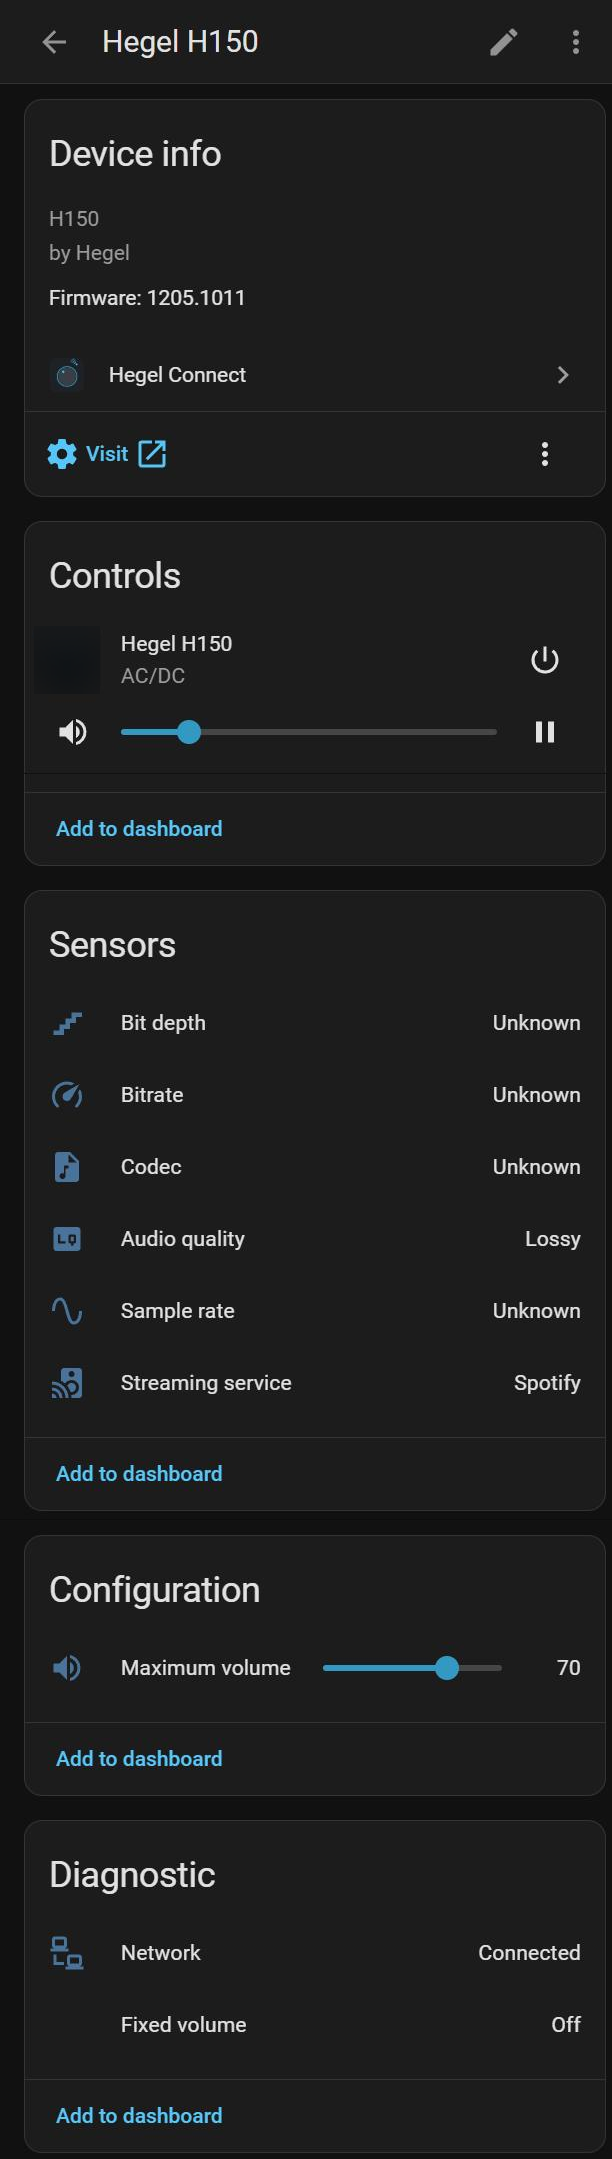
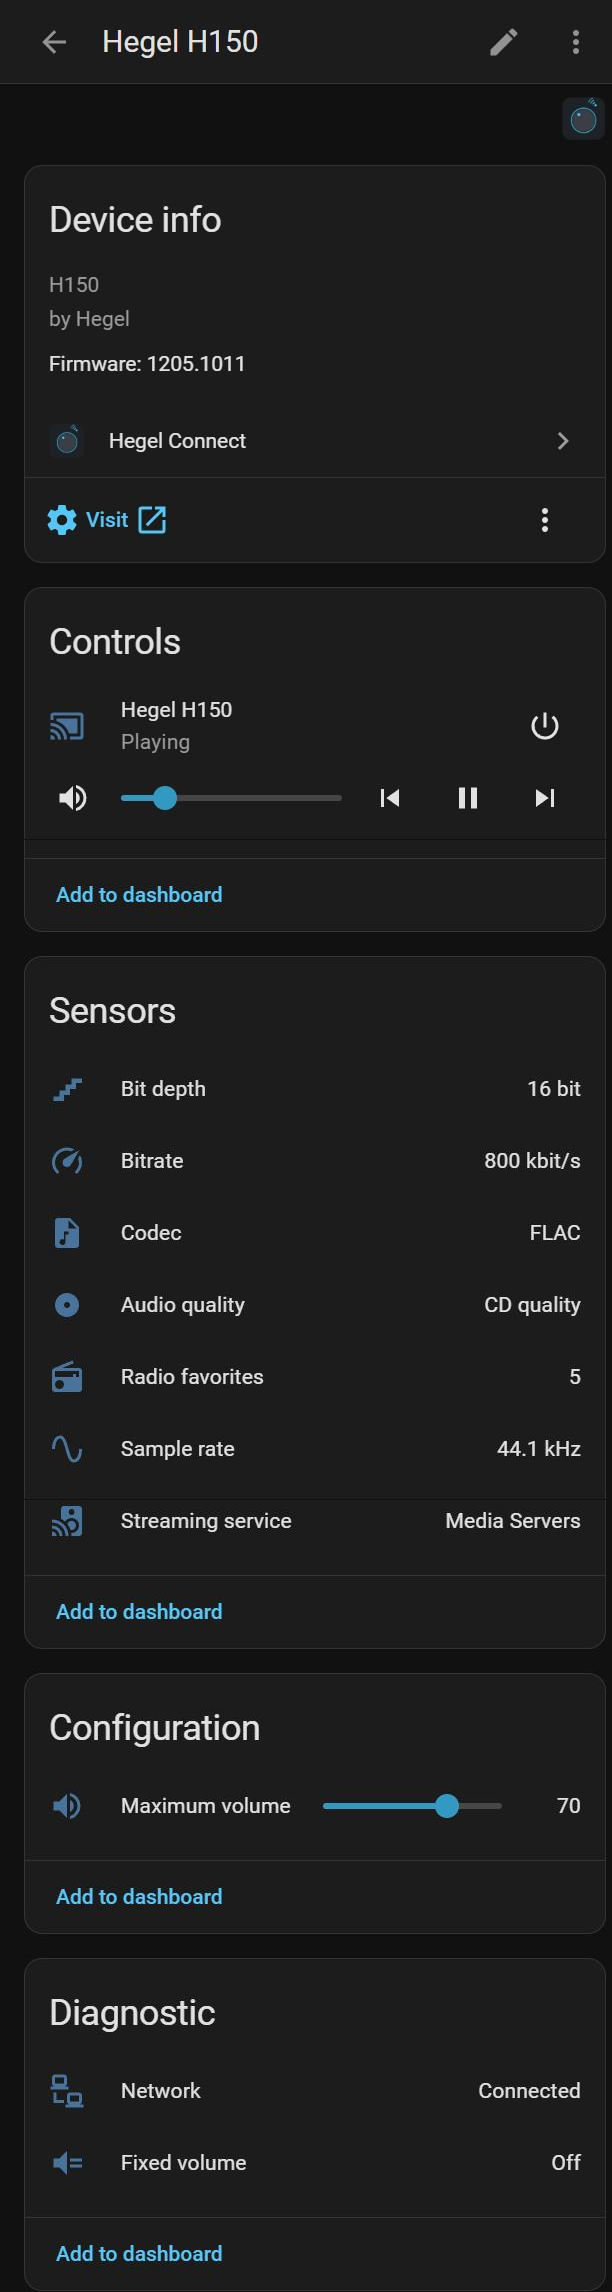
README: radio favorites sensor and example, media server row, new screenshot (FLAC from a media server)
Claude-Session: https://claude.ai/code/session_01XapCvCkMDgF1EGFruTqRYU

diff --git a/README.md b/README.md
@@ -36,6 +36,7 @@ The H150, H400 and H600 share the same software platform (they are supported by 
 - **Reliable input switching**: waits until the amplifier is on, pauses a running stream and checks the input stays selected (after power-on the amplifier otherwise jumps back to Network)
 - **Playback**: play, pause, next, previous and stop, **only where the current service allows it** (see below)
 - **Media browser**: your internet radio favorites, all internet radio and recently played
+- **Radio favorites sensor** with the stations saved in the Hegel Control app, to build radio buttons on a dashboard
 
 **Now playing and stream format**
 - Title, artist, album, cover art, streaming service, track length and position
@@ -63,6 +64,7 @@ The amplifier reports per service which controls work; Hegel Connect follows it,
 | :---- | :---- | :---- | :---- |
 | Spotify Connect | Service and quality only (Spotify sends no codec or bitrate) | No: the amplifier refuses it | No: would end the session with your phone |
 | Internet radio | Codec, bit depth, sample rate, bitrate | No | Yes |
+| Media server (UPnP/DLNA, e.g. FLAC from a NAS) | Codec, bit depth, sample rate, bitrate | Yes (tested) | Offered (not tested yet) |
 | TIDAL / Qobuz Connect | Codec, bit depth, sample rate | Expected (not tested yet) | Offered (not tested yet) |
 | AirPlay (e.g. Apple Music) | AirPlay's own label (Lossless, Hi-Res Lossless) | Expected (not tested yet) | Offered (not tested yet) |
 | Google Cast (e.g. YouTube Music) | Codec | Not tested yet | Offered (not tested yet) |
@@ -78,6 +80,7 @@ For an amplifier named *Hegel H150*:
 | `media_player.hegel_h150` | Power, volume, mute, input, playback, now playing, media browser |
 | `sensor.hegel_h150_audio_quality` | Hi-Res, CD quality, Lossless, Lossy, DSD (while the streamer plays) |
 | `sensor.hegel_h150_codec`, `_sample_rate`, `_bit_depth`, `_bitrate`, `_streaming_service` | Stream details, when the service reports them |
+| `sensor.hegel_h150_radio_favorites` | Number of radio favorites; the list (title, icon, path) as attribute, for radio buttons on a dashboard |
 | `number.hegel_h150_maximum_volume` | Volume ceiling for Home Assistant (configuration) |
 | `binary_sensor.hegel_h150_network` | On while the amplifier answers, standby included (diagnostic) |
 | `binary_sensor.hegel_h150_fixed_volume` | On when the current input uses fixed volume (diagnostic) |
@@ -102,7 +105,16 @@ automation:
           value: 40
 ```
 
-Play a radio favorite from a script: open the media browser on the media player, pick the station, and use *Play* in the action editor; Home Assistant fills in the `media_content_id` for you.
+Play the first radio favorite from a script or button:
+
+```yaml
+action: media_player.play_media
+target:
+  entity_id: media_player.hegel_h150
+data:
+  media_content_type: hegel_path
+  media_content_id: "{{ state_attr('sensor.hegel_h150_radio_favorites', 'favorites')[0].path }}"
+```
 
 ## Installation
 
